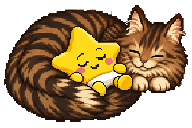
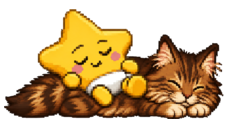
fix: 3シーンの配置と照明を調整する

diff --git a/src/content/scene-presentations.ts b/src/content/scene-presentations.ts
@@ -109,7 +109,7 @@ export const SCENE_PRESENTATIONS: Readonly<Record<SceneId, ScenePresentationDefi
         // 素材160pxの55%=88pxを切り出すので、拡大率0.5になる44を表示高さにする。
         height: 44,
         x: 69,
-        y: 25,
+        y: 30,
       },
       tint: { color: 0x101a3b, alpha: 0.72 },
     },
@@ -177,10 +177,11 @@ export const SCENE_PRESENTATIONS: Readonly<Record<SceneId, ScenePresentationDefi
       bedsideTable: "照明は消してある。星を見るには暗いほうがいいらしい。",
     },
     collectionImage: "assets/collection/watching-stars.webp",
-    room: (visit) =>
-      visit.mimizouPresent
+    room: (visit) => ({
+      ...DEFAULT_ROOM,
+      lightsOff: true,
+      ...(visit.mimizouPresent
         ? {
-            ...DEFAULT_ROOM,
             companion: {
               assetName: "mimizou-pixel.png",
               height: 34,
@@ -188,7 +189,8 @@ export const SCENE_PRESENTATIONS: Readonly<Record<SceneId, ScenePresentationDefi
               y: 126,
             },
           }
-        : DEFAULT_ROOM,
+        : {}),
+    }),
   },
   almostAwake: {
     route: {

diff --git a/src/rendering/room-layers.ts b/src/rendering/room-layers.ts
@@ -161,10 +161,12 @@ export function createClockLayer(source: Texture, now: Date, tint: RoomTint, bak
   };
 }
 
-export function createTimeLightingLayer(visit: VisitView, sceneLayout: RoomLayout): Container {
+export function createTimeLightingLayer(visit: VisitView, sceneLayout: RoomLayout, lightsOff = false): Container {
   const layer = new Container();
   layer.label = "timeLighting";
-  const lights = getRoomLights(visit.assignment.band, visit.scene.characterPose === "sleep", sceneLayout);
+  const lights = lightsOff
+    ? []
+    : getRoomLights(visit.assignment.band, visit.scene.characterPose === "sleep", sceneLayout);
   for (const light of lights) {
     const graphic = new Graphics();
     if (light.kind === "circle") {

diff --git a/src/rendering/room.ts b/src/rendering/room.ts
@@ -275,7 +275,7 @@ export async function renderRoom(
   app.stage.addChild(floorDecor, fixtureLayer, clockLayer.container);
   if (visitor) app.stage.addChild(visitor);
   if (!tatsuoWindowFace) app.stage.addChild(createWindowForeground());
-  app.stage.addChild(depthContainer, createTimeLightingLayer(visit, sceneLayout));
+  app.stage.addChild(depthContainer, createTimeLightingLayer(visit, sceneLayout, presentation.lightsOff));
   if (getThunderFlashFrame) app.stage.addChild(createThunderFlashLayer(app, getThunderFlashFrame));
   if (tatsuoWindowFace) {
     app.stage.addChild(tatsuoWindowFace);

diff --git a/tests/room-presentation.spec.ts b/tests/room-presentation.spec.ts
@@ -185,7 +185,7 @@ describe("room presentation", () => {
         assetName: "tatsuo-awake-pixel.png",
         height: 44,
         x: 69,
-        y: 25,
+        y: 30,
       },
     });
   });
@@ -477,6 +477,10 @@ describe("room presentation", () => {
       sleeperBreathing: "alternating",
       hiddenDepthDecorationIds: ["maineCoon"],
     });
+  });
+
+  it("turns off every room light while watching stars", () => {
+    expect(getRoomPresentation(visitFor("watchingStars"))).toMatchObject({ lightsOff: true });
   });
 
   it("uses layered rendering for every scene", () => {

diff --git a/src/content/scenes.ts b/src/content/scenes.ts
@@ -272,7 +272,7 @@ export const SCENES: readonly SceneDefinition[] = [
     lines: ["むにゃ……クーンちゃん、ふかふか……", "すー……すー……雲の枕みたいだね……"],
     details: [
       "エトキチの頭が、クーンちゃんの長い毛へゆっくり沈んでいる",
-      "クーンちゃんの大きなしっぽが、エトキチを毛布のように包んでいる",
+      "横に伸びて眠るクーンちゃんの身体を、エトキチが枕にしている",
     ],
     unlockRequirement: {
       kind: "sceneDiscovery",

diff --git a/src/rendering/room-presentation-types.ts b/src/rendering/room-presentation-types.ts
@@ -123,6 +123,8 @@ export interface RoomPresentationCommon {
   comfortingMaineCoon?: ComfortingMaineCoonPresentation;
   thunderstorm?: boolean;
   tatsuoWindow?: TatsuoWindowPresentation;
+  /** シーン設定として部屋の灯りをすべて消す。時間帯Tintは維持する。 */
+  lightsOff?: boolean;
   observationOverrides?: ObservationOverrides;
   // 時間帯から決まる既定の照明を、このシーンだけ差し替える。
   tint?: RoomTint;
